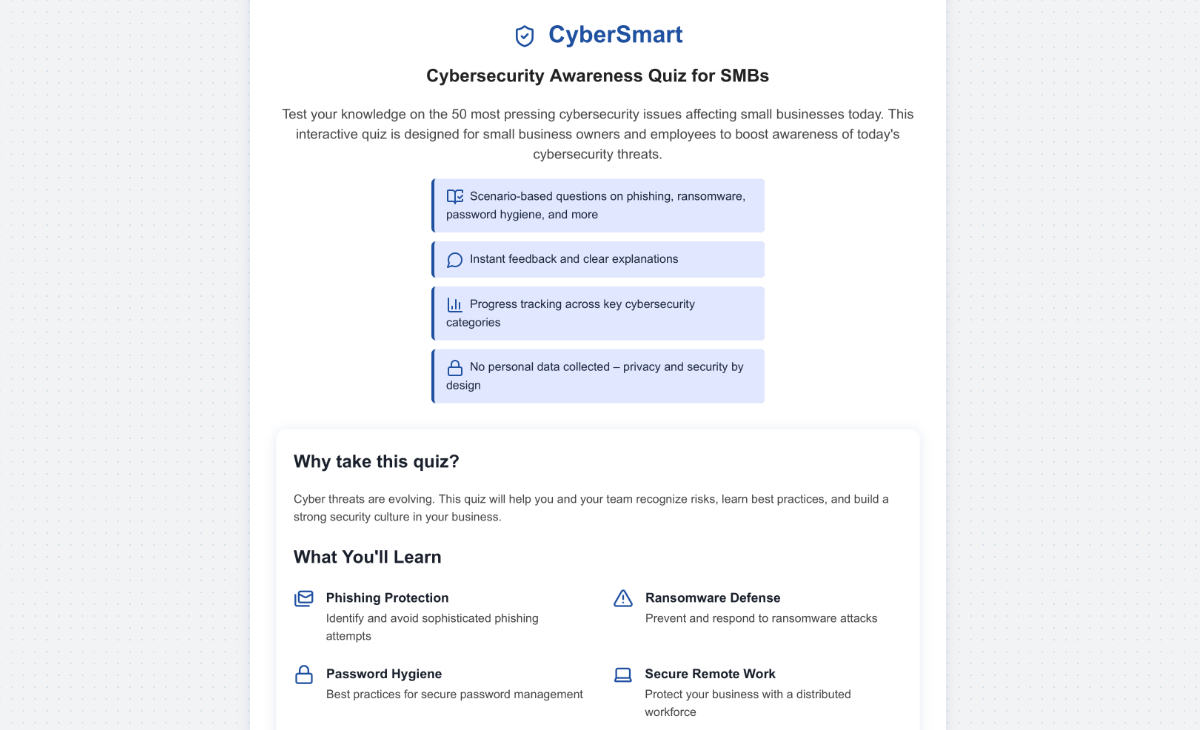
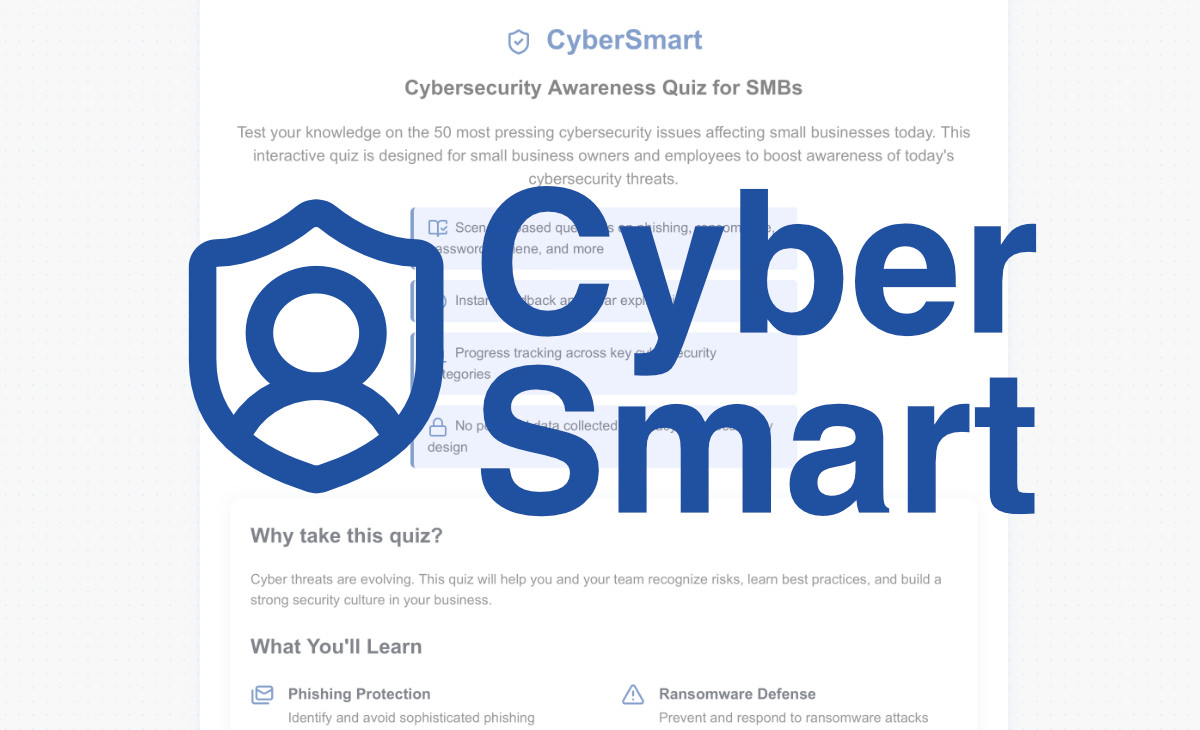
Update OG meta description and default image for social media sharing

Changed region(s): [[0.1542, 0.0301, 0.8633, 0.9945], [0.4933, 0.9041, 0.7708, 0.9945]]

diff --git a/index.html b/index.html
@@ -10,7 +10,7 @@
     <meta name="author" content="Windsurf, ChatGPT" />
     <!-- Open Graph -->
     <meta property="og:title" content="CyberSmart : Cybersecurity Awareness Quiz for SMBs" />
-    <meta property="og:description" content="Test and improve your cybersecurity knowledge with this interactive quiz for small businesses. Earn a certificate!" />
+    <meta property="og:description" content="Test and improve your cybersecurity knowledge with this interactive quiz for small businesses." />
     <meta property="og:type" content="website" />
     <meta property="og:image" content="/og_default.jpg" />
     <meta property="og:url" content="https://CyberSmart.halans.dev" />
